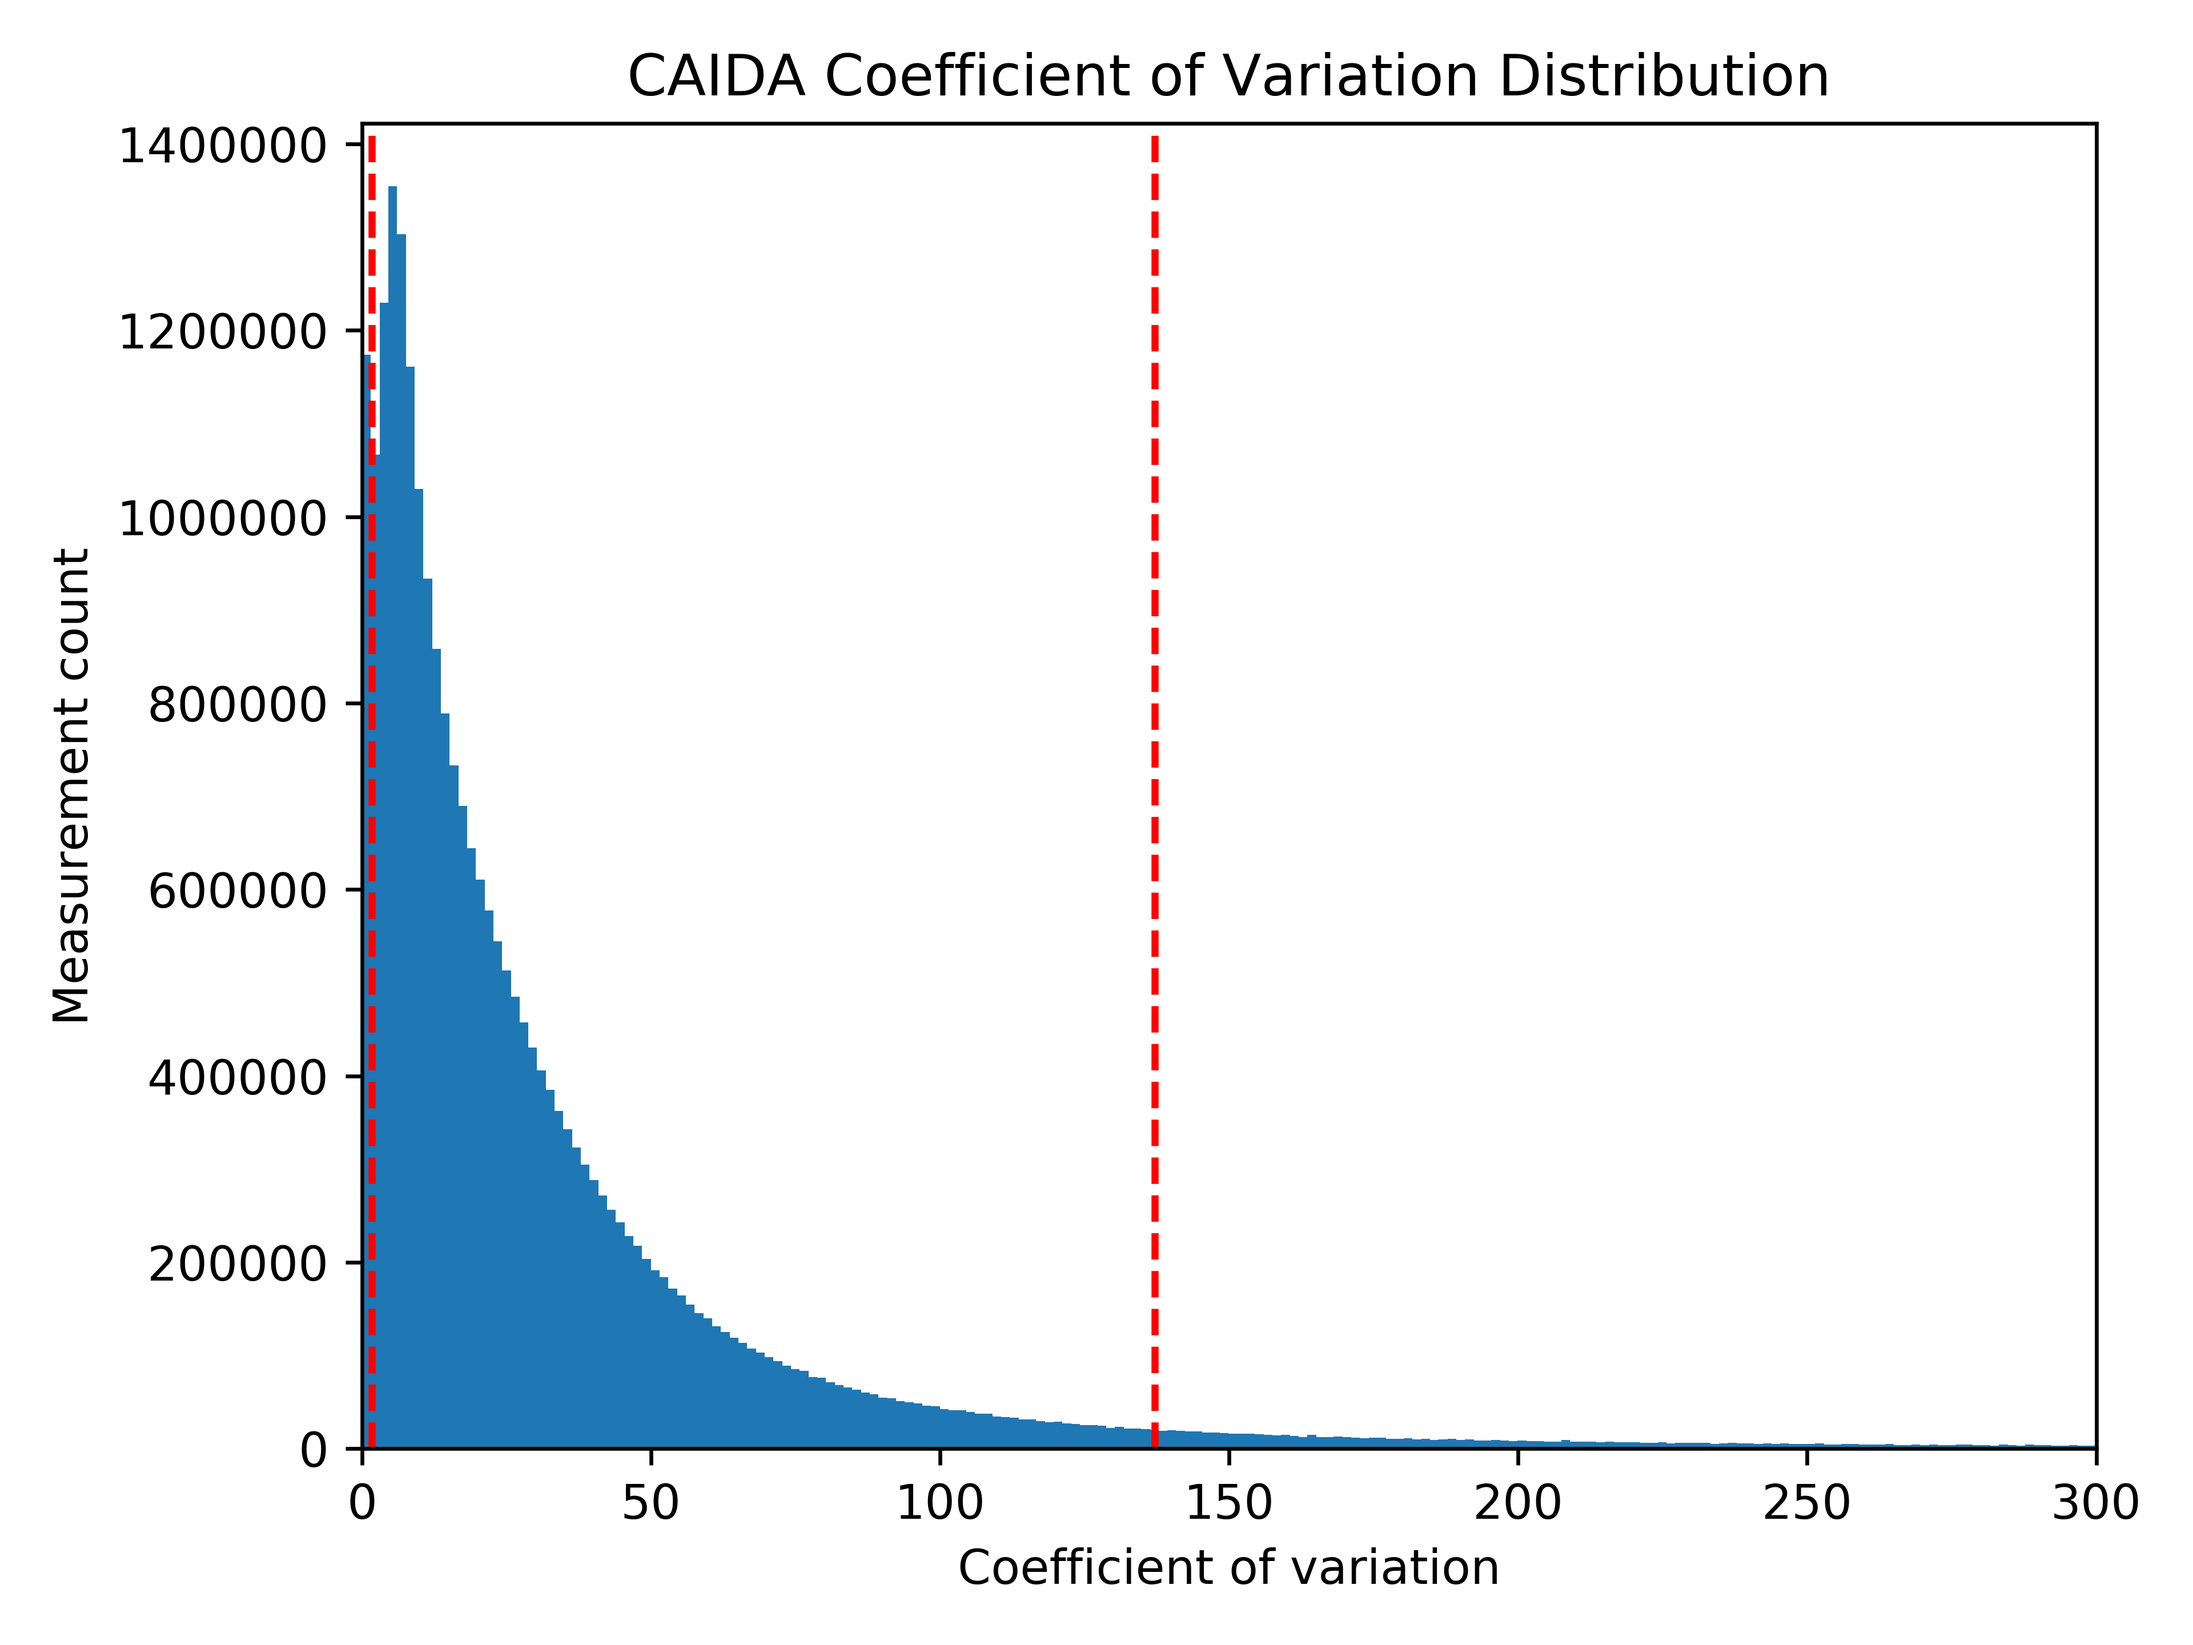
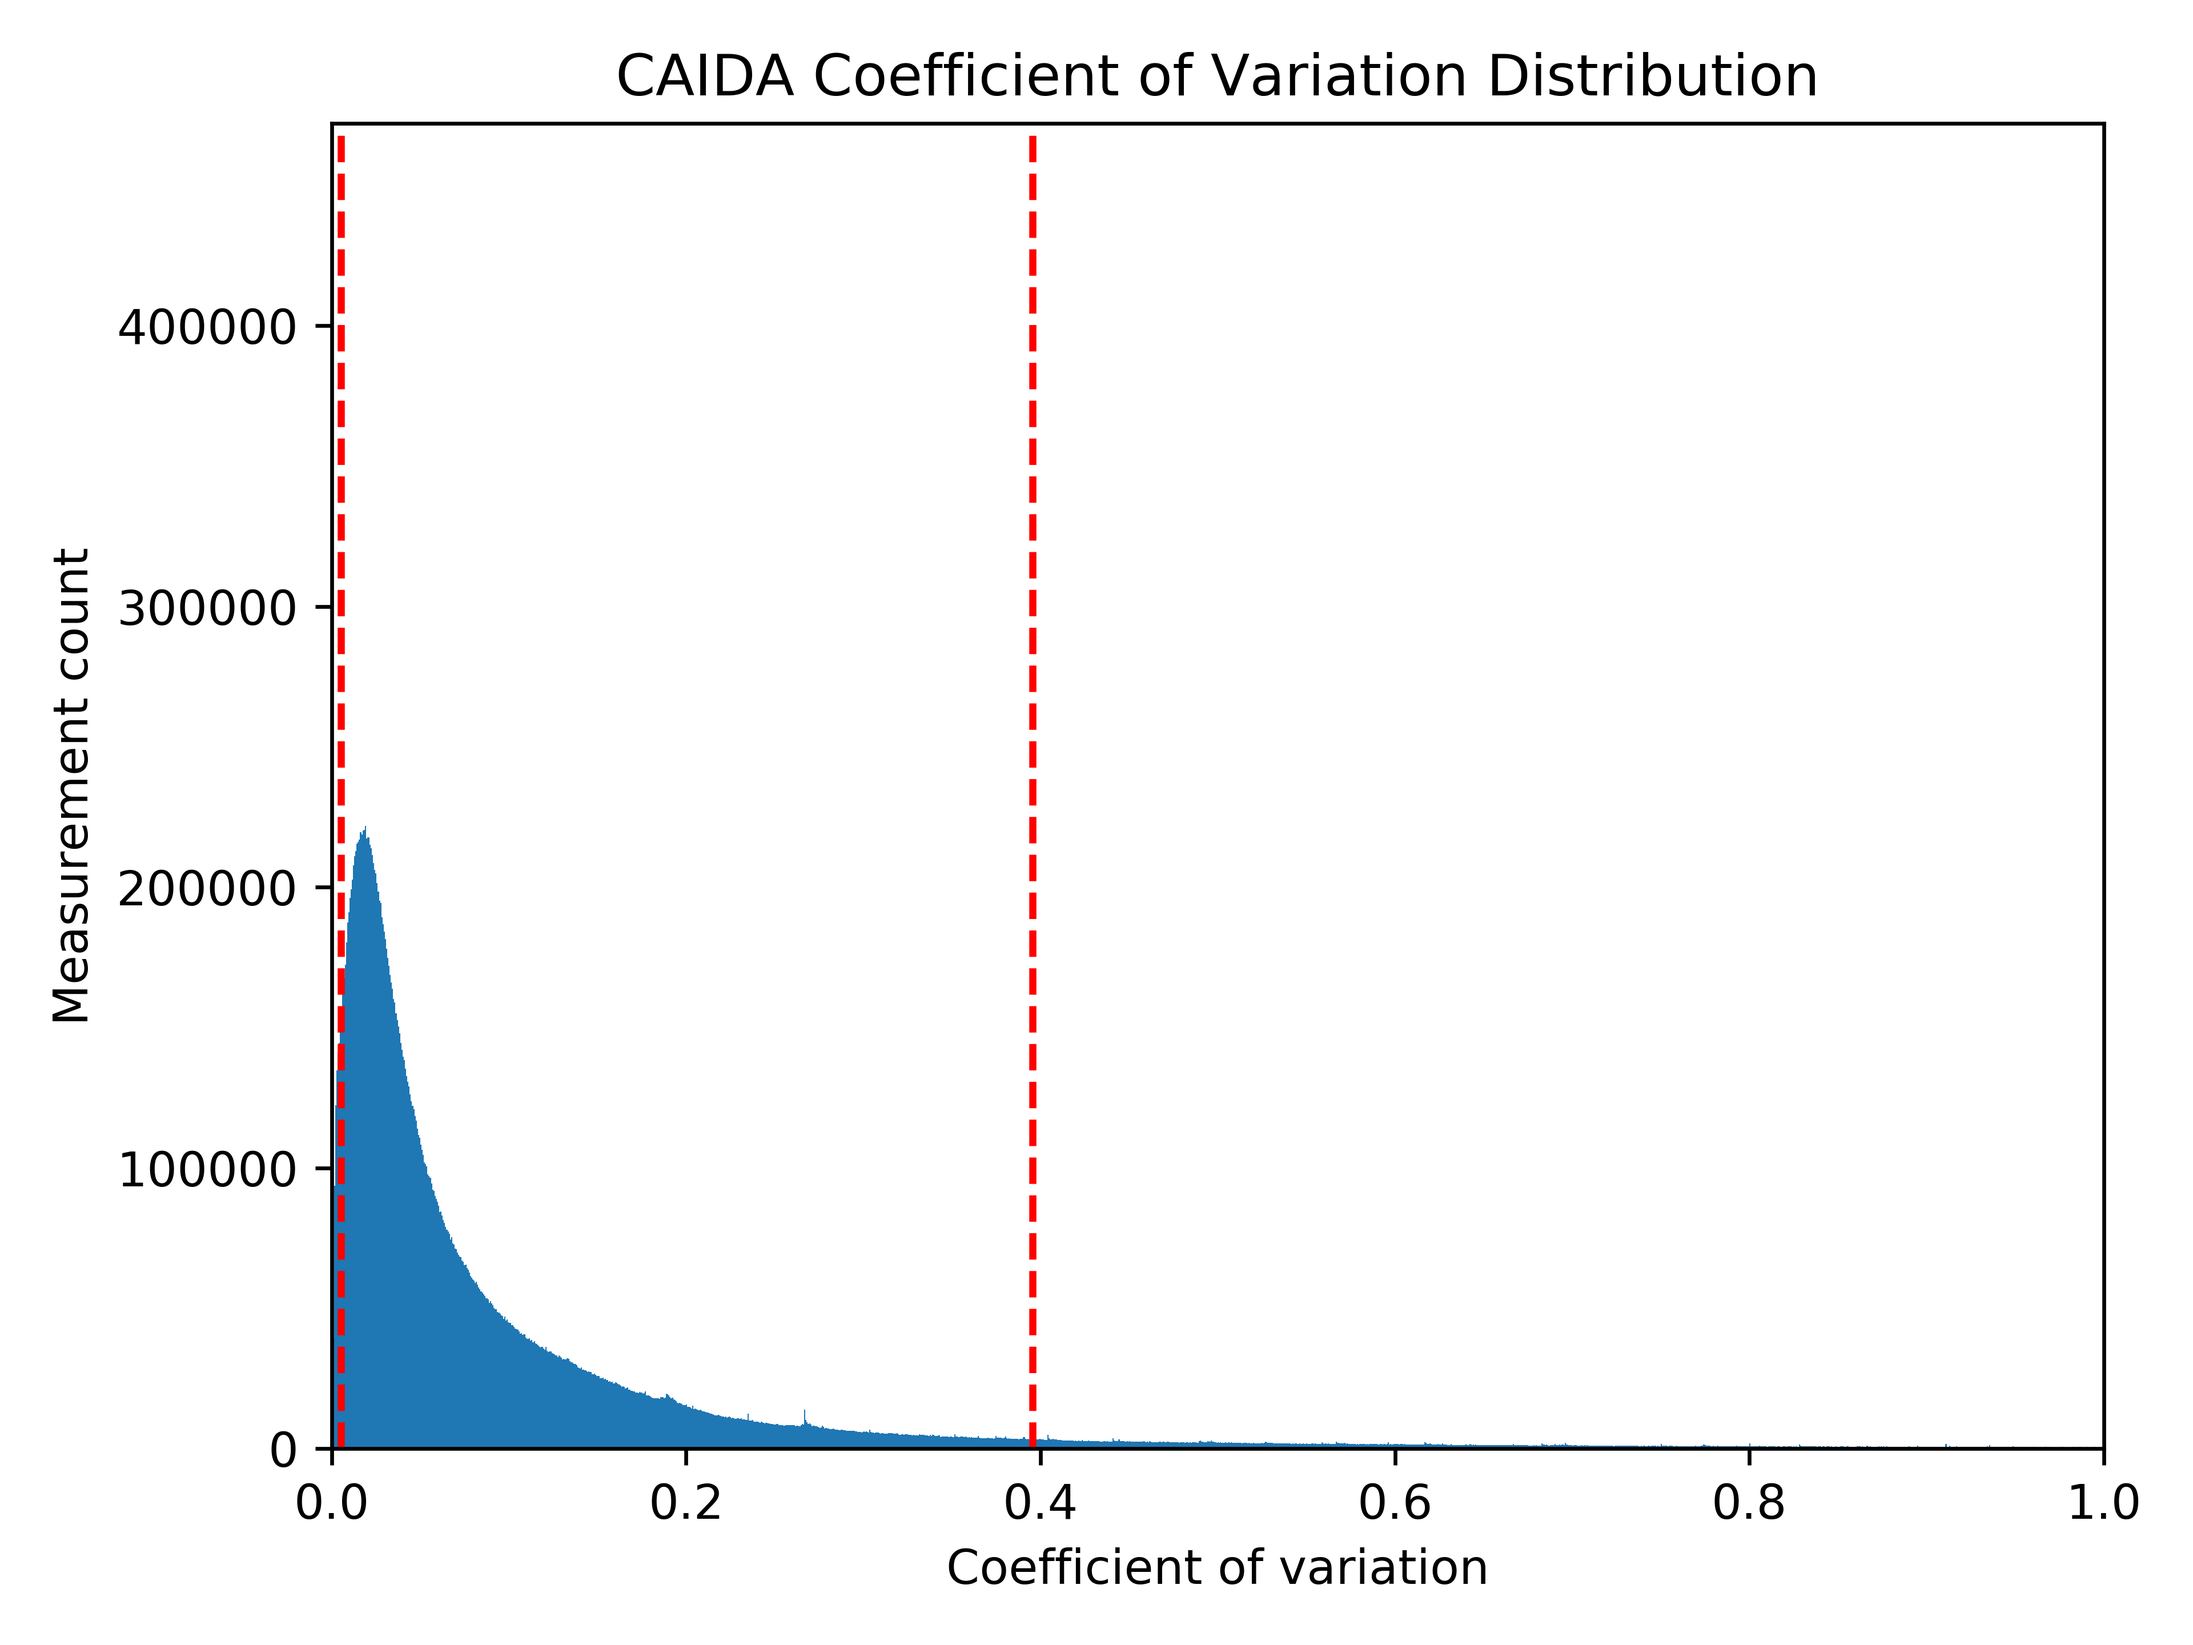
Fix inverse coefficient of variation plot

diff --git a/process_traceroutes_postgres.py b/process_traceroutes_postgres.py
@@ -44,10 +44,11 @@ with open(args.input, "r") as file:
 			if len(base_src) == 0:
 				continue
 
-		if i % 20000 == 0 and len(hops) != 0:
-			vprint("Processed {} traceroutes".format(i))
+		# Dump saved buffer of hops into DB, but don't commit.
+		if i % 10000 == 0 and len(hops) != 0:
 			args_str = ",".join(("('%s', '%s', %f, %d, '%s')" % hop) for hop in hops)
 			cursor.execute("INSERT INTO hops VALUES " + args_str)
+			vprint("Processed {} traceroutes".format(i))
 			args_str = ""
 			hops.clear()
 
@@ -70,23 +71,31 @@ with open(args.input, "r") as file:
 			else:
 				hops.append((base_src, traceroute["dst"], traceroute["hops"][len(traceroute["hops"]) - 1]["rtt"], time, 0))
 		else:
+			# Either direct or full hopping node
 			for j, hop in enumerate(traceroute["hops"] if not args.atlas else traceroute["result"]):
-				if not args.direct:
-					if args.atlas:
-						# Atlas is *weird*. Some results don't have RTTs!
-						if "result" not in hop.keys():
-							continue
-						hop["result"] = list(filter(lambda r: "rtt" in r.keys(), hop["result"]))
-						if len(hop["result"]) == 0:
-							continue
-						last_hop = traceroute["result"][j - 1]
-						if len(last_hop["result"]) == 0:
-							# Just append the direct hop instead and continue onward; this is probably cheaper than
-							# exception handling would be at this scale.
-							hops.append((base_src, hop["result"][0]["from"], curr_mean, time, 'f'))
-							continue
 
-						curr_mean = mean([result["rtt"] for result in hop["result"]])  # Also used later
+				# Verification and preprocessing for Atlas data
+				if args.atlas:
+					# Atlas is *weird*. Some results don't have RTTs!
+					if "result" not in hop.keys():
+						continue
+					hop["result"] = list(filter(lambda r: "rtt" in r.keys(), hop["result"]))
+					if len(hop["result"]) == 0:
+						continue
+					last_hop = traceroute["result"][j - 1]
+					curr_mean = mean([result["rtt"] for result in hop["result"]])  # Also used later
+
+				# Add a hop for the direct source->hop entry
+				if args.atlas:
+					hops.append((base_src, hop["result"][0]["from"], curr_mean, time, 'f'))
+				else:
+					hops.append((base_src, hop["addr"], hop["rtt"], time, 'f'))  # Base source to this hop
+
+				# Full hopping mode includes calculations for RTT between individual hops
+				if not args.direct and j != 0:
+					if args.atlas:
+						if len(last_hop["result"]) == 0:
+							continue
 						src = base_src if j == 0 else last_hop["result"][0]["from"]
 						rtt = curr_mean if j == 0 else curr_mean - mean([result["rtt"] for result in last_hop["result"]])
 						dst = hop["result"][0]["from"]  # Assume there will always be at least one entry
@@ -96,13 +105,6 @@ with open(args.input, "r") as file:
 						rtt = hop["rtt"] if j == 0 else hop["rtt"] - last_hop["rtt"]
 						dst = hop["addr"]
 					hops.append((src, dst, rtt, time, 't'))  # Last hop to current hop
-
-				if j != 0:
-					if args.atlas:
-						hops.append((base_src, hop["result"][0]["from"], curr_mean, time, 'f'))
-					else:
-						hops.append((base_src, hop["addr"], hop["rtt"], time, 'f'))  # Base source to this hop
-
 
 vprint("Committing to database...")
 if len(hops) != 0:

diff --git a/histogram_plotter.py b/histogram_plotter.py
@@ -14,7 +14,7 @@ args = parser.parse_args()
 with open(args.dbconfig, "r") as dbconfig:
 	connection = postgresql.get_postgres_connection(dbconfig)
 
-df = pd.read_sql_query("SELECT CASE rtt_stdev WHEN 0 THEN 0 ELSE rtt_avg / rtt_stdev END AS data FROM hops_aggregate WHERE rtt_stdev < 125 AND rtt_avg < 1000", connection)
+df = pd.read_sql_query("SELECT rtt_stdev / rtt_avg AS data FROM hops_aggregate WHERE rtt_avg != 0 AND (rtt_stdev / rtt_avg) < 1.0", connection)
 print("Retrieved {} rows".format(len(df)))
 
 # Main histogram chart
@@ -22,7 +22,7 @@ matplotlib.rcParams["figure.dpi"] = 600
 fig, ax = plt.subplots()
 ax.hist(df["data"], bins=1500)
 labels = ax.get_xticklabels()
-ax.set(xlim=[0, 300], ylabel="Measurement count", xlabel="Coefficient of variation",
+ax.set(xlim=[0, 1], ylabel="Measurement count", xlabel="Coefficient of variation",
 	   title="CAIDA Coefficient of Variation Distribution")
 
 # Display 5th and 95th quantiles
